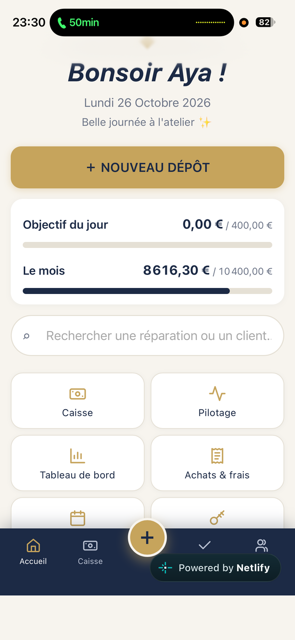
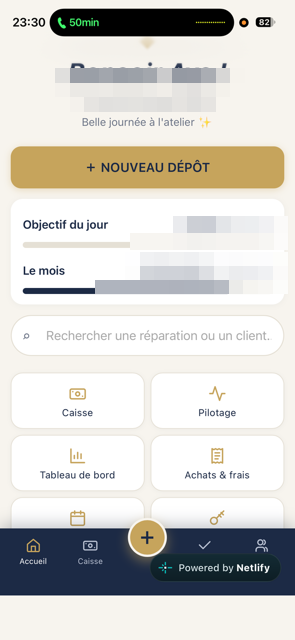
Redact personal data in case study screenshots
Pixelate employee and owner first names and the jeweler's real
revenue figures in the three app screenshots; add a confidentiality
note to the case studies intro.

Claude-Session: https://claude.ai/code/session_01DKCMmHoai7A45DxxNk3rN4

Changed region(s): [[0.3051, 0.3125, 0.9153, 0.4688], [0.2136, 0.0938, 0.7932, 0.1875]]

diff --git a/nastudio/applications.html b/nastudio/applications.html
@@ -79,7 +79,7 @@
     <div class="sec-head">
       <p class="mono">Études de cas · captures réelles, applications en production</p>
       <h2>Chez nos clients, ça ressemble à ça.</h2>
-      <p>Pas des maquettes : les écrans ci-dessous sont photographiés sur les téléphones de nos clients et de leurs équipes, tels qu'ils les utilisent chaque jour.</p>
+      <p>Pas des maquettes : les écrans ci-dessous sont photographiés sur les téléphones de nos clients et de leurs équipes, tels qu'ils les utilisent chaque jour. Prénoms et chiffres floutés par confidentialité — chez nous, les données des clients restent chez les clients.</p>
     </div>
     <div class="cases">
 
